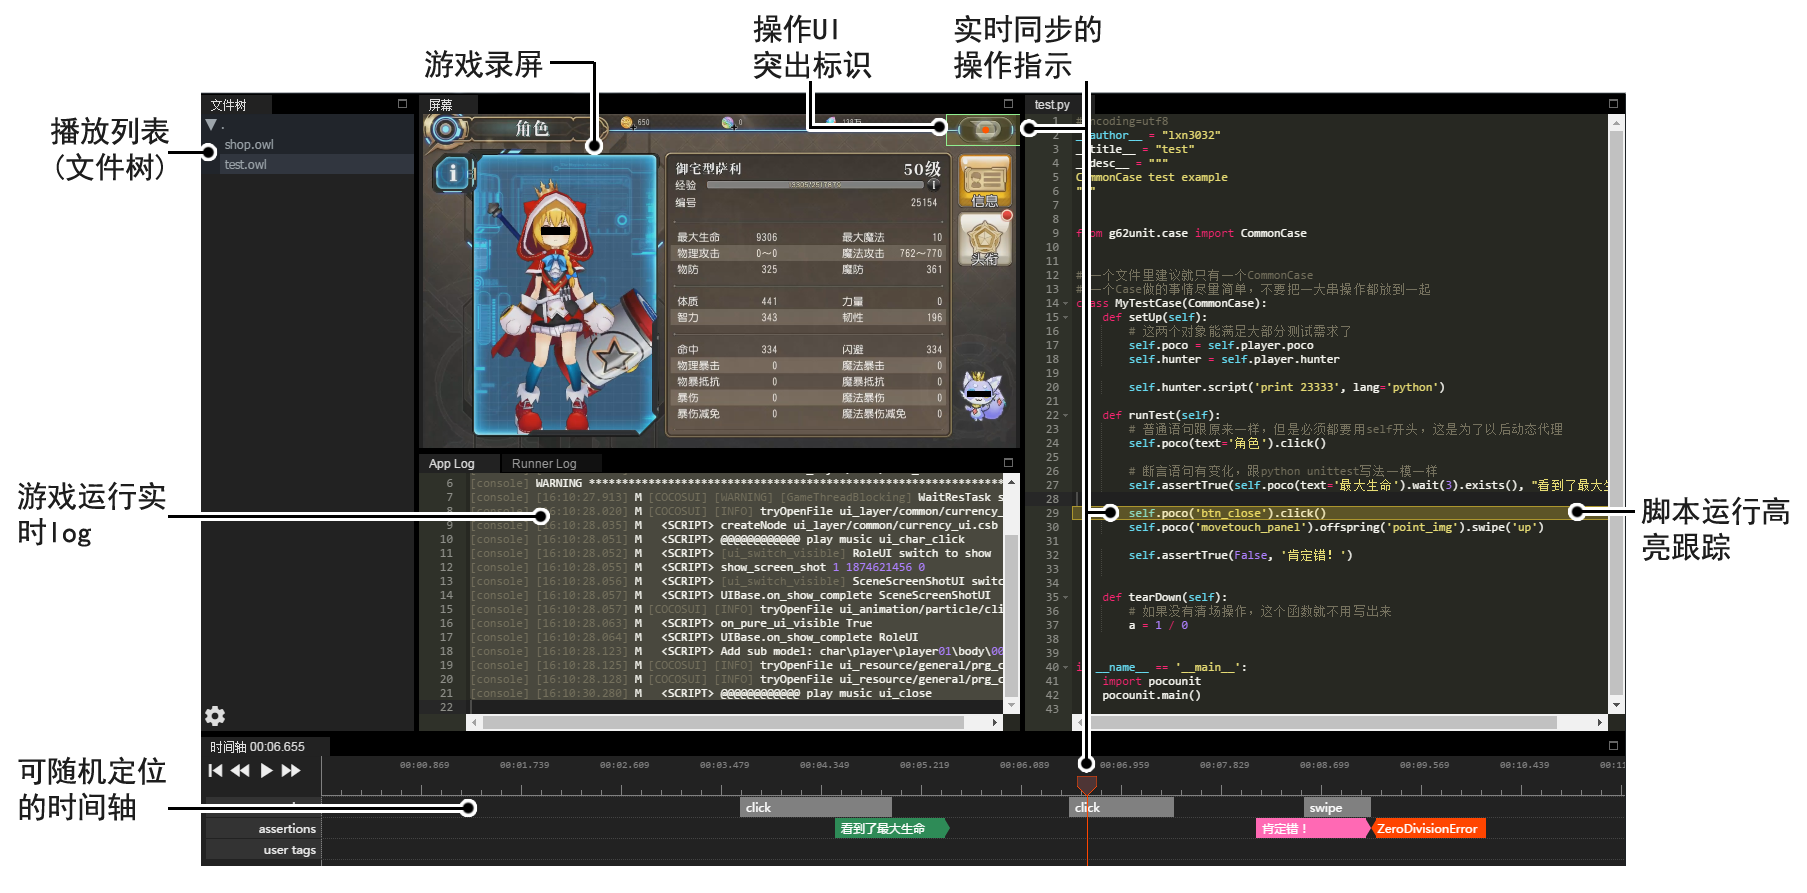
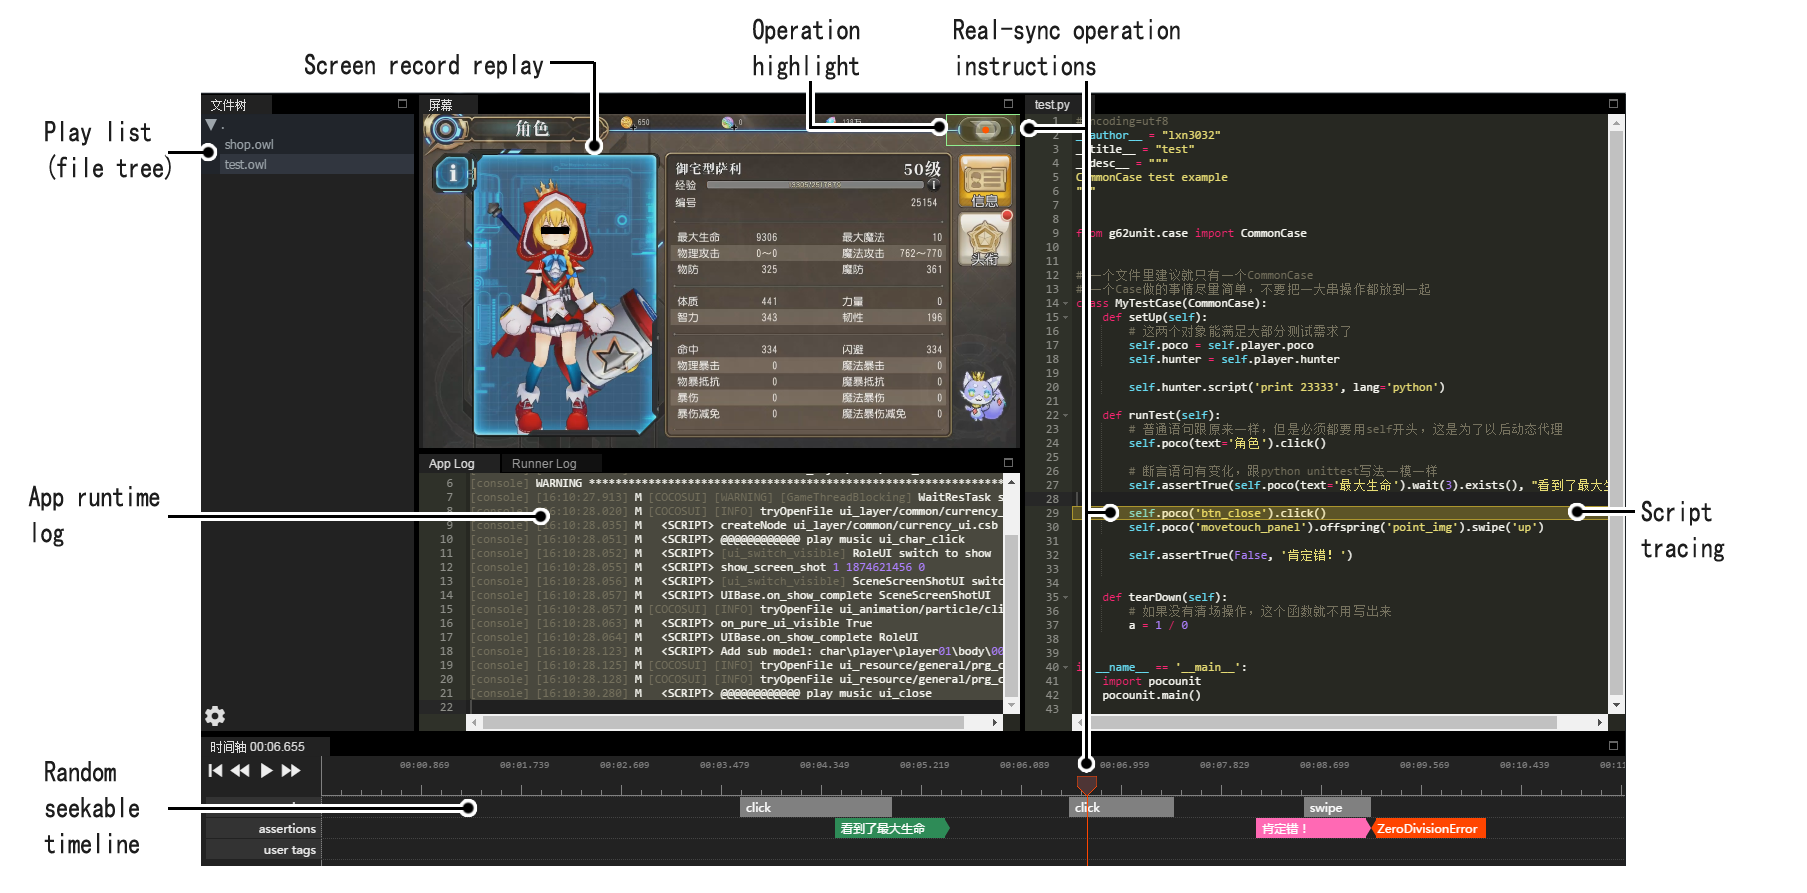
translate text on some images. add docstring for poco drivers.

diff --git a/poco/drivers/android/uiautomation.py b/poco/drivers/android/uiautomation.py
@@ -72,6 +72,27 @@ class AndroidPocoAgent(PocoAgent):
 
 
 class AndroidUiautomationPoco(Poco):
+    """
+    Poco Android implementation for testing **Android native apps**.
+
+    Args:
+        device (:py:obj:`Device`): :py:obj:`airtest.core.device.Device` instance provided by ``airtest``. leave the 
+         parameter default and the default device will be chosen. more details refer to ``airtest doc``
+        using_proxy (:py:obj:`bool`): whether use adb forward to connect the Android device or not
+        force_restart (:py:obj:`bool`): whether always restart the poco-service-demo running on Android device or not
+        options: see :py:class:`poco.pocofw.Poco`
+
+    Examples:
+        The simplest way to initialize AndroidUiautomationPoco instance and no matter your device network status::
+
+            from poco.drivers.android.uiautomation import AndroidUiautomationPoco
+
+            poco = AndroidUiautomationPoco()
+            poco('android:id/title').click()
+            ...
+
+    """
+
     def __init__(self, device=None, using_proxy=True, force_restart=True, **options):
         if not device:
             try:
@@ -231,6 +252,18 @@ class AndroidUiautomationHelper(object):
 
     @classmethod
     def get_instance(cls, device):
+        """
+        This is only a slot to store and get already initialized poco instance rather than initializing again. You can
+        simply pass the ``current device instance`` provided by ``airtest`` to get the AndroidUiautomationPoco instance.
+        If no such AndroidUiautomationPoco instance, a new instance will be created and stored. 
+
+        Args:
+            device (:py:obj:`airtest.core.device.Device`): more details refer to ``airtest doc``
+
+        Returns:
+            poco instance
+        """
+
         if cls._nuis.get(device) is None:
             cls._nuis[device] = AndroidUiautomationPoco(device)
         return cls._nuis[device]

diff --git a/poco/drivers/unity3d/unity3d_poco.py b/poco/drivers/unity3d/unity3d_poco.py
@@ -104,6 +104,27 @@ class Dumper(FreezedUIDumper):
 
 
 class UnityPoco(Poco):
+    """
+    Poco Unity3D implementation.
+
+    Args:
+        addr (:py:obj:`tuple`): the endpoint of your Unity3D game, default to ``("localhost", 5001)``
+        unity_editor (:py:obj:`bool`): whether your Unity3D game is running in UnityEditor or not. default to ``False``
+        options: see :py:class:`poco.pocofw.Poco`
+    
+    Examples:
+        If your game is running on Android, you could initialize poco instance by using following snippet::
+            
+            from poco.drivers.unity3d import UnityPoco
+            
+            # your phone and your PC/mac should be inside the same sub-net.
+            ip = '<ip address of your phone>'
+            poco = UnityPoco((ip, 5001))
+            poco('button').click()
+            ...
+
+    """
+
     def __init__(self, addr=DEFAULT_ADDR, unity_editor=False, **options):
         agent = UnityPocoAgent(addr, unity_editor)
         if 'action_interval' not in options:
